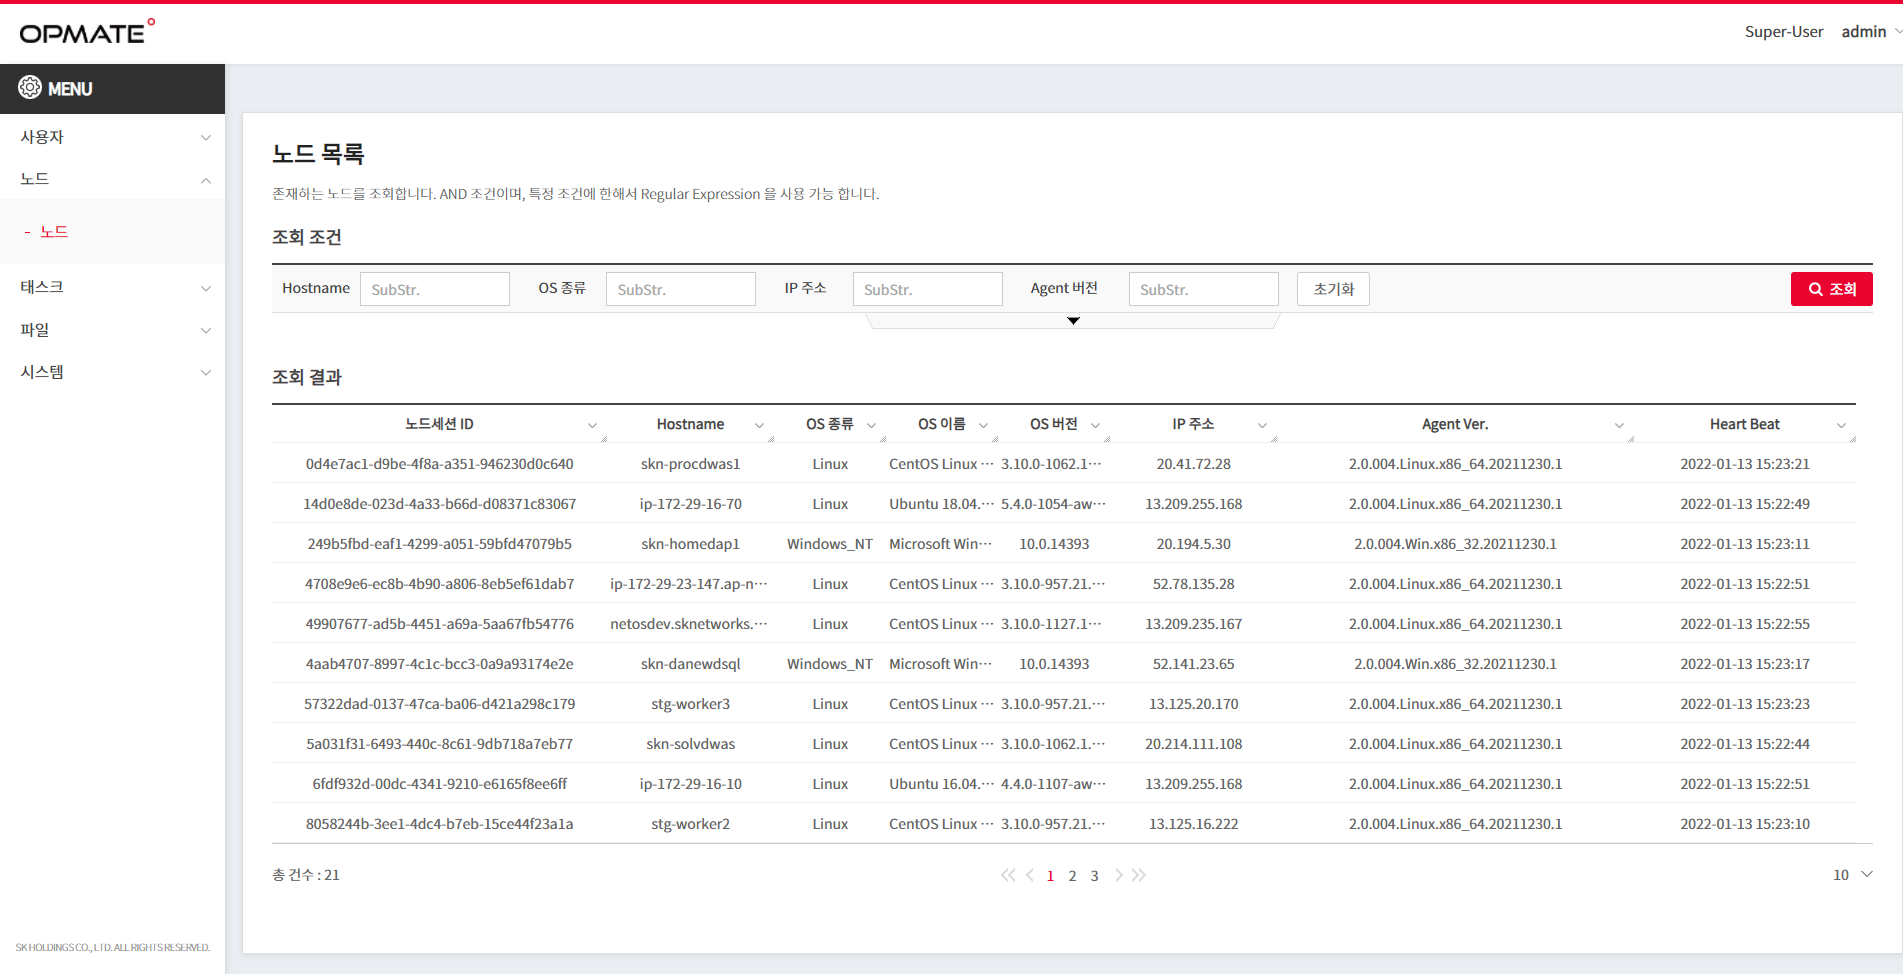
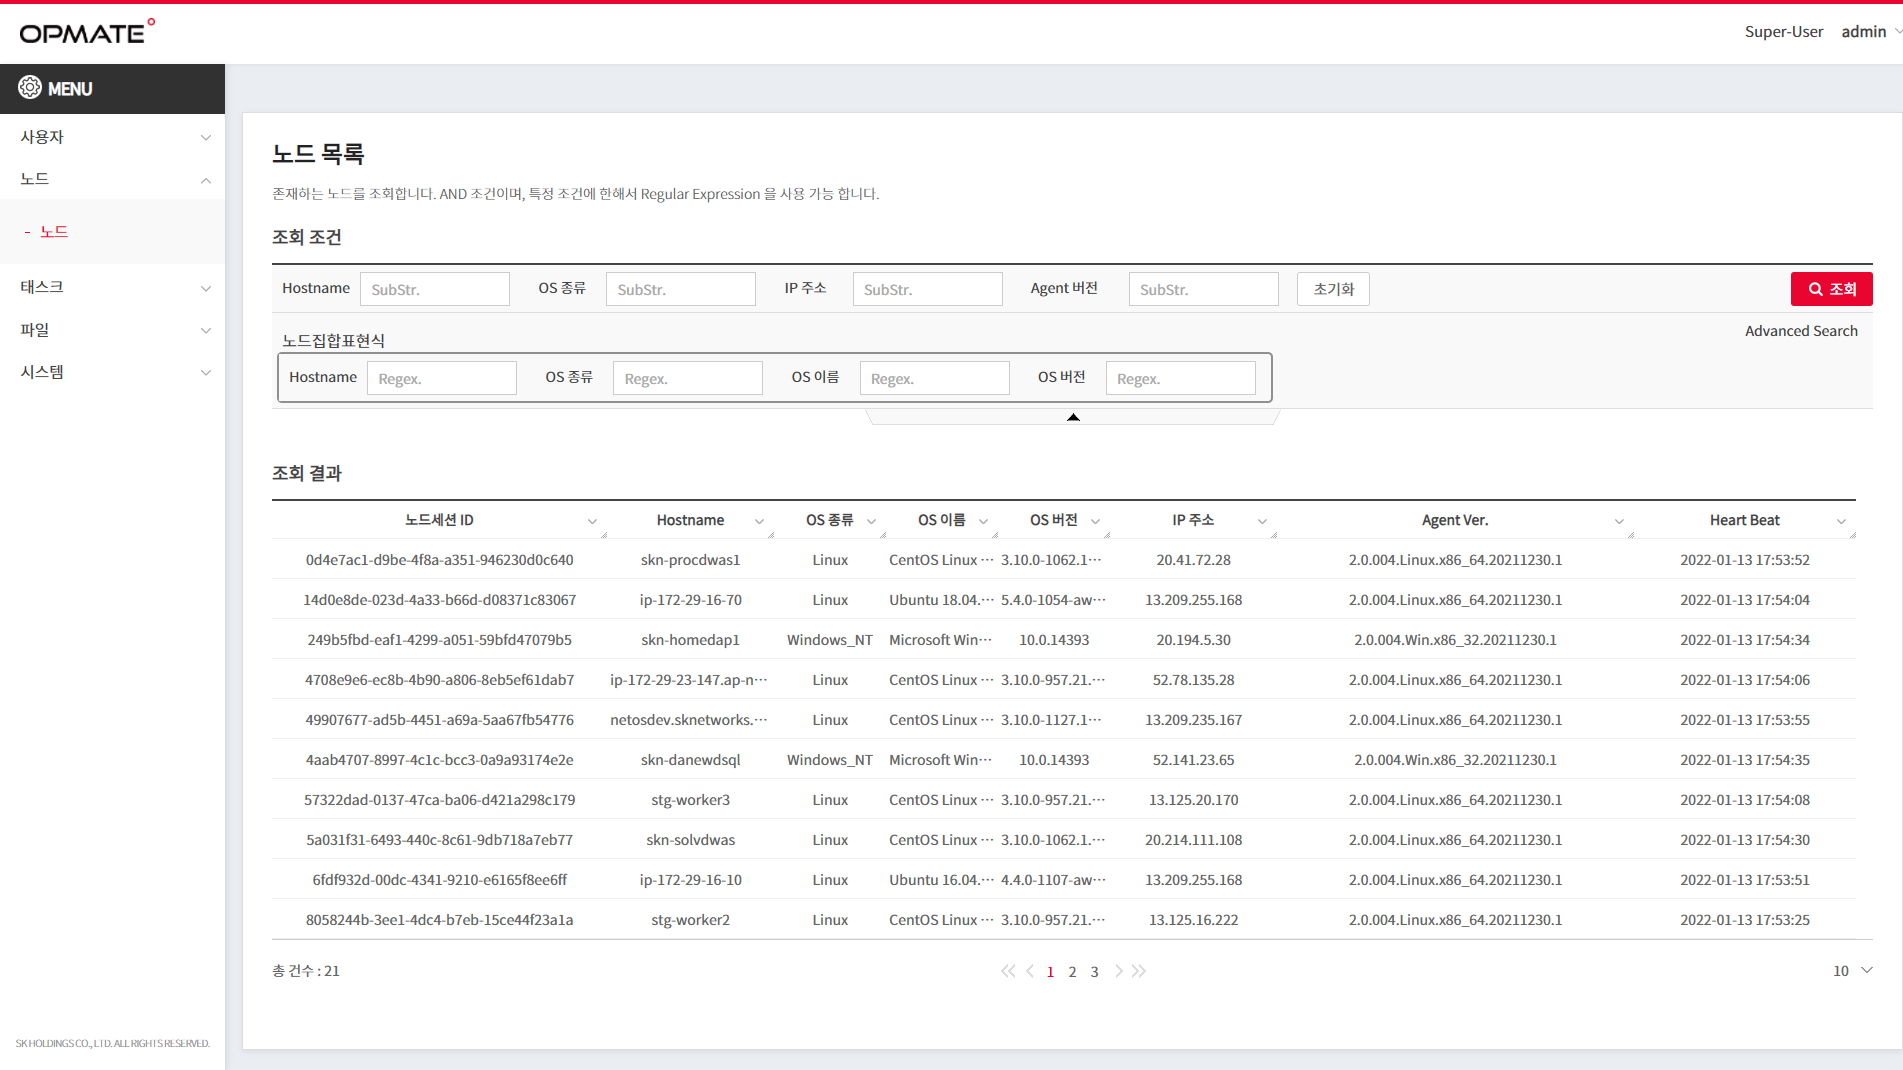
test

diff --git a/v2.0/opme/docs/Node.md b/v2.0/opme/docs/Node.md
@@ -8,9 +8,20 @@ description: 노드 목록/노드 정보
 <!-- Defined -->
 [node-lst]: img/node-lst.png
 [node-dtl]: img/node-dtl.png
-[node-condition]: img/node-condition.png
 [ico-del]: img/icon/ico-del.png
-[ico-add]: img/icon/ico-add.png  
+[ico-add]: img/icon/ico-add.png
+
+<!-- Floating Menu -->
+[prev]: Role.html "역할"
+[menu]: index.html "목차"
+[next]: Task.html "태스크"
+[ico-prev]: img/icon/ico-prev.png
+[ico-menu]: img/icon/ico-menu.png
+[ico-next]: img/icon/ico-next.png
+[![이전][ico-prev]{: class="ico-prev-float" }][prev]
+[![목차][ico-menu]{: class='ico-menu-float' }][menu]
+[![다음][ico-next]{: class="ico-next-float" }][next]
+
 
 ## 노드 목록
 OPMATE 에 연결된 노드를 조회합니다.   
@@ -20,12 +31,19 @@ OPMATE 에 연결된 노드를 조회합니다.
 ### 조회 조건
 
 #### 검색조건
-> 다음 키워드를 통해서 노드를 조회합니다. 부분문자열 조회 가능합니다.(Like)   
->> <b>Hostname, OS 종류, IP 주소, Agent 버전  </b>
 
+> **Basic Search**  
+>> **Hostname** : 부분문자열 조회 가능(Like)   
+>> **OS 종류** : 부분문자열 조회 가능(Like)  
+>> **IP 주소** : 부분문자열 조회 가능(Like)   
+>> **Agent 버전** : 부분문자열 조회 가능(Like)  
+> 
+> **Advanced Search(노드집합표현식)**  
+>> **Hostname** : 정규표현식 조회 가능(Like)  
+>> **OS 종류** : 정규표현식 조회 가능(Like)  
+>> **OS 이름** : 정규표현식 조회 가능(Like)  
+>> **OS 버전** : 정규표현식 조회 가능(Like)  
 
-> Advance Search 를 지원하며, 노드집합표현식으로 조회할 수 있습니다.
->![노드 AS][node-condition]
 
 #### 버튼
 ><kbd class="btn-gray">&nbsp;초기화&nbsp;</kbd> : 조회 조건 초기화  
@@ -44,17 +62,15 @@ OPMATE 에 연결된 노드를 조회합니다.
 
 
 ## 노드 정보
-노드 정보 확인이 가능합니다.  
+노드 정보 확인이 가능합니다. (조회 Only)
 
 >![노드 정보][node-dtl]
  
 ### 기본정보
-> 선택한 노드의 기본 정보  
->>    노드세션 ID, Hostname, OS 종류/이름/버전, IP정보,  
-      Agent 버전, Heart Beat, 생성일시 등
->>> IP 의 경우, Core 가 인식하는 기준의 IP 주소임을 참고해 주시기 바랍니다.  
+> OPMATE Agent 와 설치된 서버의 정보를 확인 가능
+> - **IP주소** : OPMATE Master가 인지한 주소(NAT IP 등)
 
 ### 하단 버튼영역
-> **목록** : 사용자 목록으로 이동  
+> **목록** : 목록 화면으로 이동  
  
  

diff --git a/v2.0/opme/docs/Role.md b/v2.0/opme/docs/Role.md
@@ -10,6 +10,8 @@ description: 역할 목록/역할 정보
 [role-dtl]: img/role-dtl.png
 [ico-del]: img/icon/ico-del.png
 [ico-add]: img/icon/ico-add.png
+[popup-user]: PopupUser.md
+[popup-node]: PopupNode.md
 
 <!-- Floating Menu -->
 [prev]: UserGroup.html "사용자그룹"
@@ -66,10 +68,24 @@ Super-User만 역할 정보의 등록/수정이 가능합니다.
 > **이름**  
 
 ### 노드집합정보  
-> 역할에 부여할 노드셋 정보. Hostname, OS종류, OS이름, OS버전, OS계정 등
+> 역할에 부여할 노드셋 정보
 
-### 비밀번호
-> 비밀번호 정보를 입력. Normal-User 인 경우, 기존 비밀번호 입력 필수  
+#### Grid 상단영역
+> ![삭제][ico-del] : Check 된 Row 를 삭제     
+> ![추가/등록][ico-add] : 노드집합정보 추가 ([참고][popup-node])
+
+#### Grid 하단영역
+> **Left** : 조회 건수
+
+### 사용자정보
+> 역할에 부여된 사용자 정보  
+
+#### Grid 상단영역
+> ![삭제][ico-del] : Check 된 Row 를 삭제     
+> ![추가/등록][ico-add] : 사용자정보 추가 ([참고][popup-user])
+
+#### Grid 하단영역
+> **Left** : 조회 건수
 
 ### 이력정보
 > 등록/변경과 관련된 이력정보
